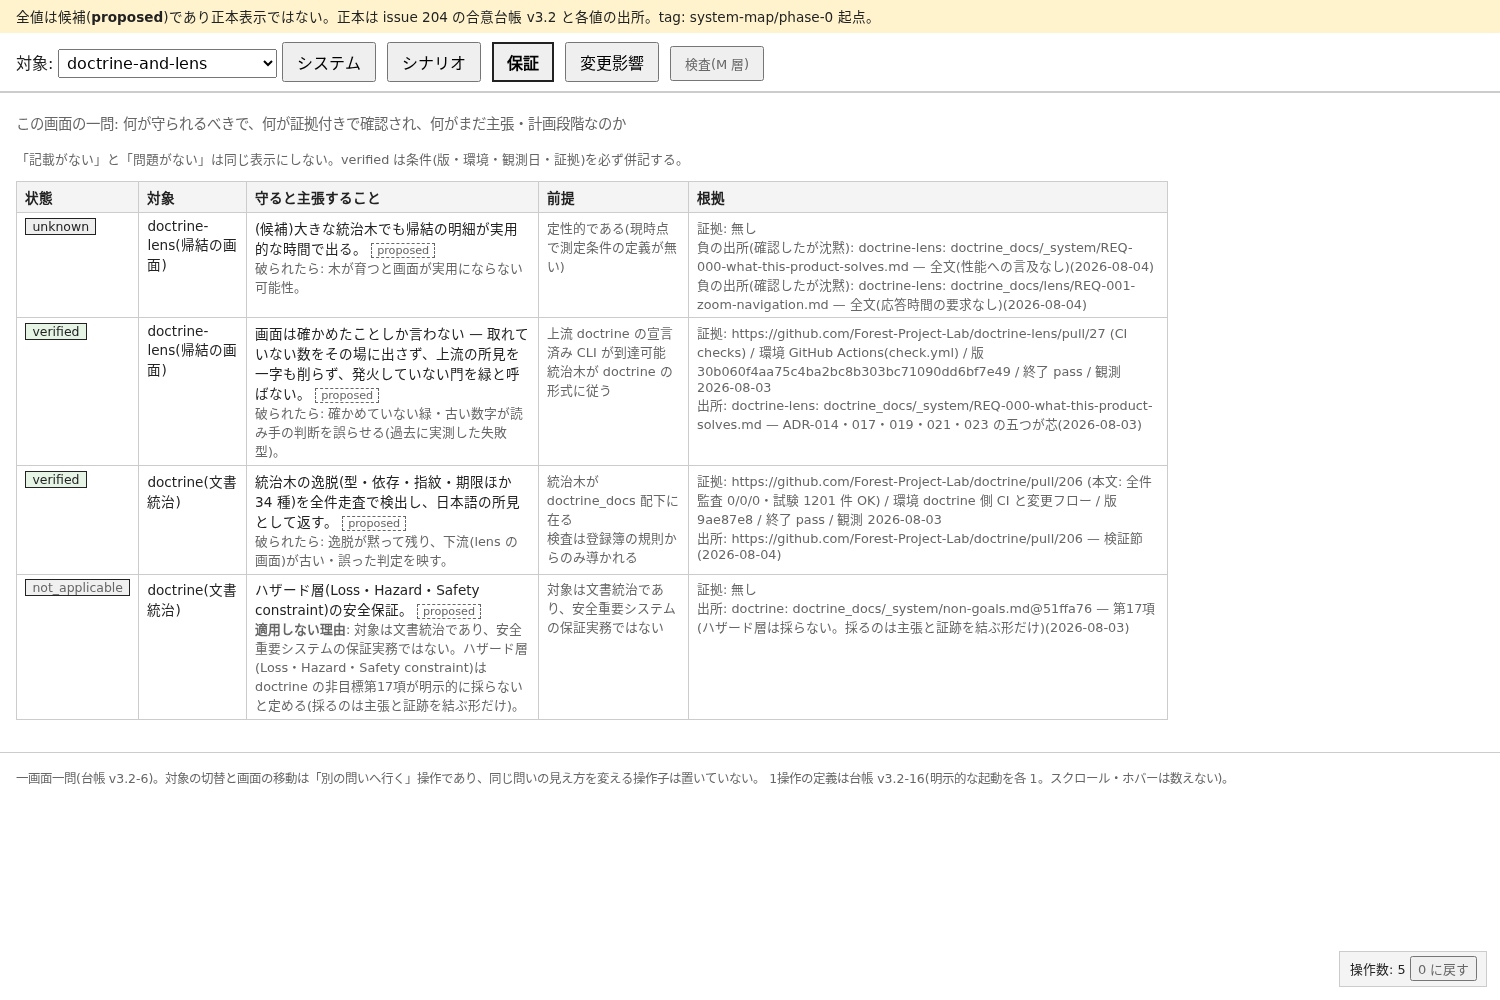
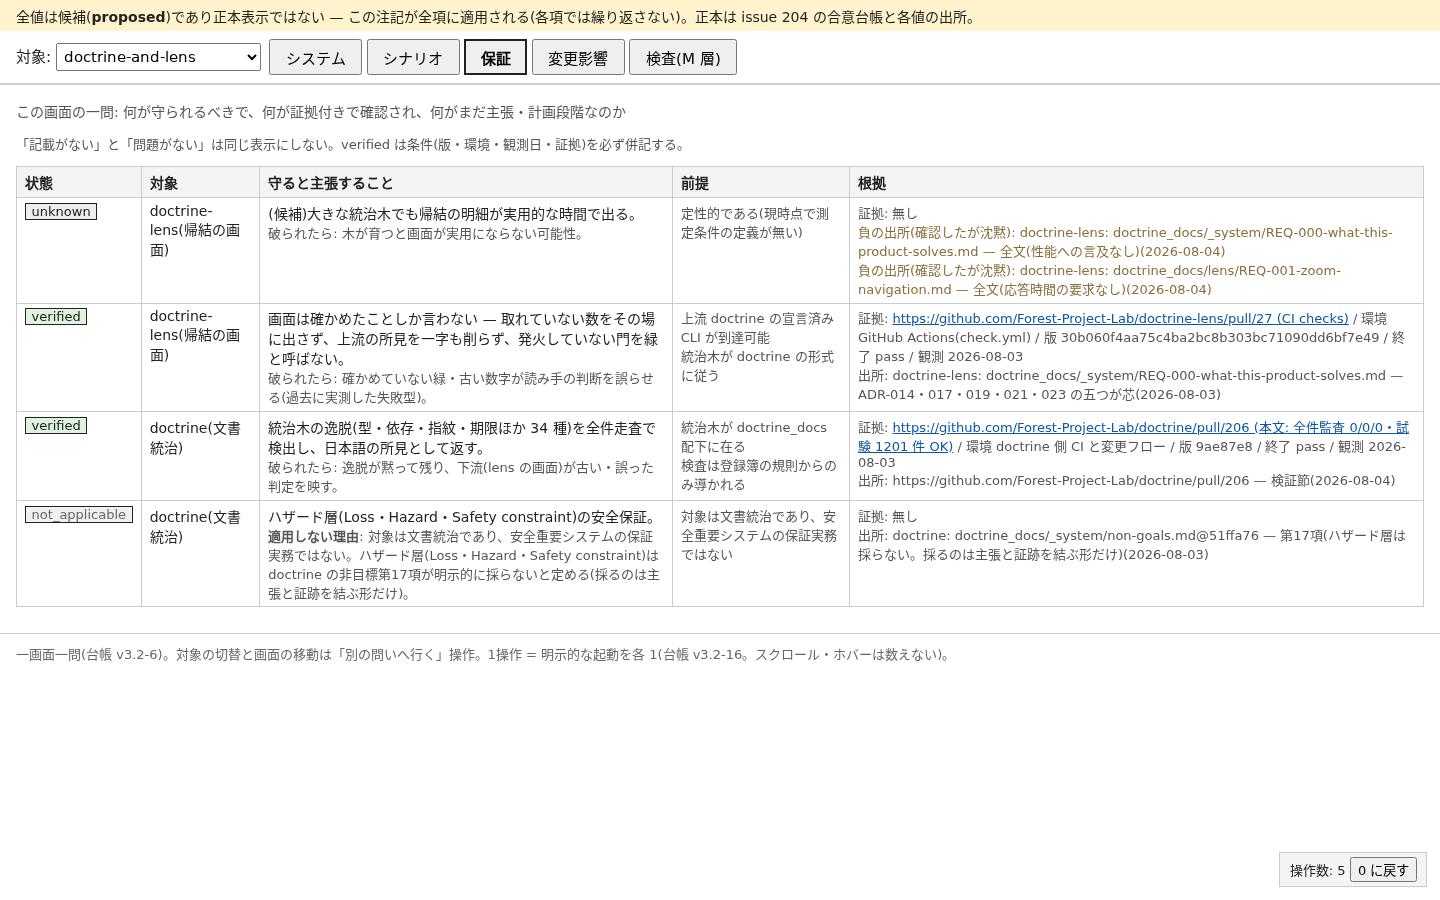
最終スイープ: 静止画を全面撮り直す(縦積み UI・証拠パネル・実判定検査画面)
02b(パネル 9〜12 節の実リンク)を追加。全アンカー URL 17 件の
HTTP 実在確認と、§5 縦断経路のブラウザ実走(3 操作で Code 到達・
復元動作)を実施済み。

diff --git a/research/system-map/prototype/shots/README.md b/research/system-map/prototype/shots/README.md
@@ -1,18 +1,18 @@
 # 静止画(所有者の UIUX 確認用)
 
-撮影時点: commit `e29b9ea`(experiment/system-map)・2026-08-04。
+撮影時点: commit `4e9d210`(experiment/system-map)・2026-08-04。
 **静止画は撮った時点の木でしか正しくない。** 模型や画面を変えたら撮り直す(build.mjs → shoot.mjs)。
-12〜14 番(旧 案A/案B 比較用)は、所有者判断(2026-08-04、構成図を採用)により役目を終えて削除した。
 
-- `01-system-t1.png` — 対象1(Doctrine+Lens)システム画面 — 構成図(採用: 所有者判断 2026-08-04)
-- `02-system-t1-detail.png` — lens を選択 → 詳細パネル(IN/OUT の詳細表+契約充足の評価)
-- `03-system-t1-drill.png` — doctrine の内部(black box → white box。パンくず付き)
+- `01-system-t1.png` — 対象1 全体 — 縦積みの構成図(1440×900・100% 相当)
+- `02-system-t1-detail.png` — lens を選択 — 図と 12 節の詳細パネルを同時表示
+- `02b-panel-evidence.png` — 詳細パネル下部 — 9〜12 節(Guarantee/Failure/Rationale/Code・Evidence の実リンク)
+- `03-system-t1-drill.png` — lens の内部 — パンくず+親の目的常示+越境流れの集約表
 - `04-scenario-t1.png` — 対象1 シナリオ画面(正常系+例外系)
 - `05-assurance-t1.png` — 対象1 保証画面 — 状態を重い順、unknown は負の出所つき
-- `06-assurance-t2.png` — 対象2(出荷プロセス)保証画面 — claimed(stale .vsix 事故)と unknown
-- `07-system-t2.png` — 対象2 システム画面(構成図) — 人・運用・外部系を含む境界
-- `08-system-t3.png` — 対象3(Celery)システム画面(構成図)
+- `06-assurance-t2.png` — 対象2 保証画面 — claimed(stale .vsix 事故)と unknown
+- `07-system-t2.png` — 対象2 全体 — 人・運用・外部系(行内複数箱・上から入る戻り辺)
+- `08-system-t3.png` — 対象3(Celery)全体
 - `09-assurance-t3.png` — 対象3 保証画面 — 順序保証の unknown(負の出所2件)
 - `10-impact.png` — 変更影響画面 — 答えの正本は既存 Lens と明記(混ぜない)
-- `11-inspect.png` — 検査画面 — M-13/M-14(負の試験で発火確認済み)と全要素の操作数表
+- `11-inspect.png` — 検査画面 — M-13(実ブラウザ)・M-14(実経路)の判定と全要素の到達表
 - `15-assurance-fixture.png` — fixture(架空): planned/failed/stale を含む保証画面 — H 層 T6 用
